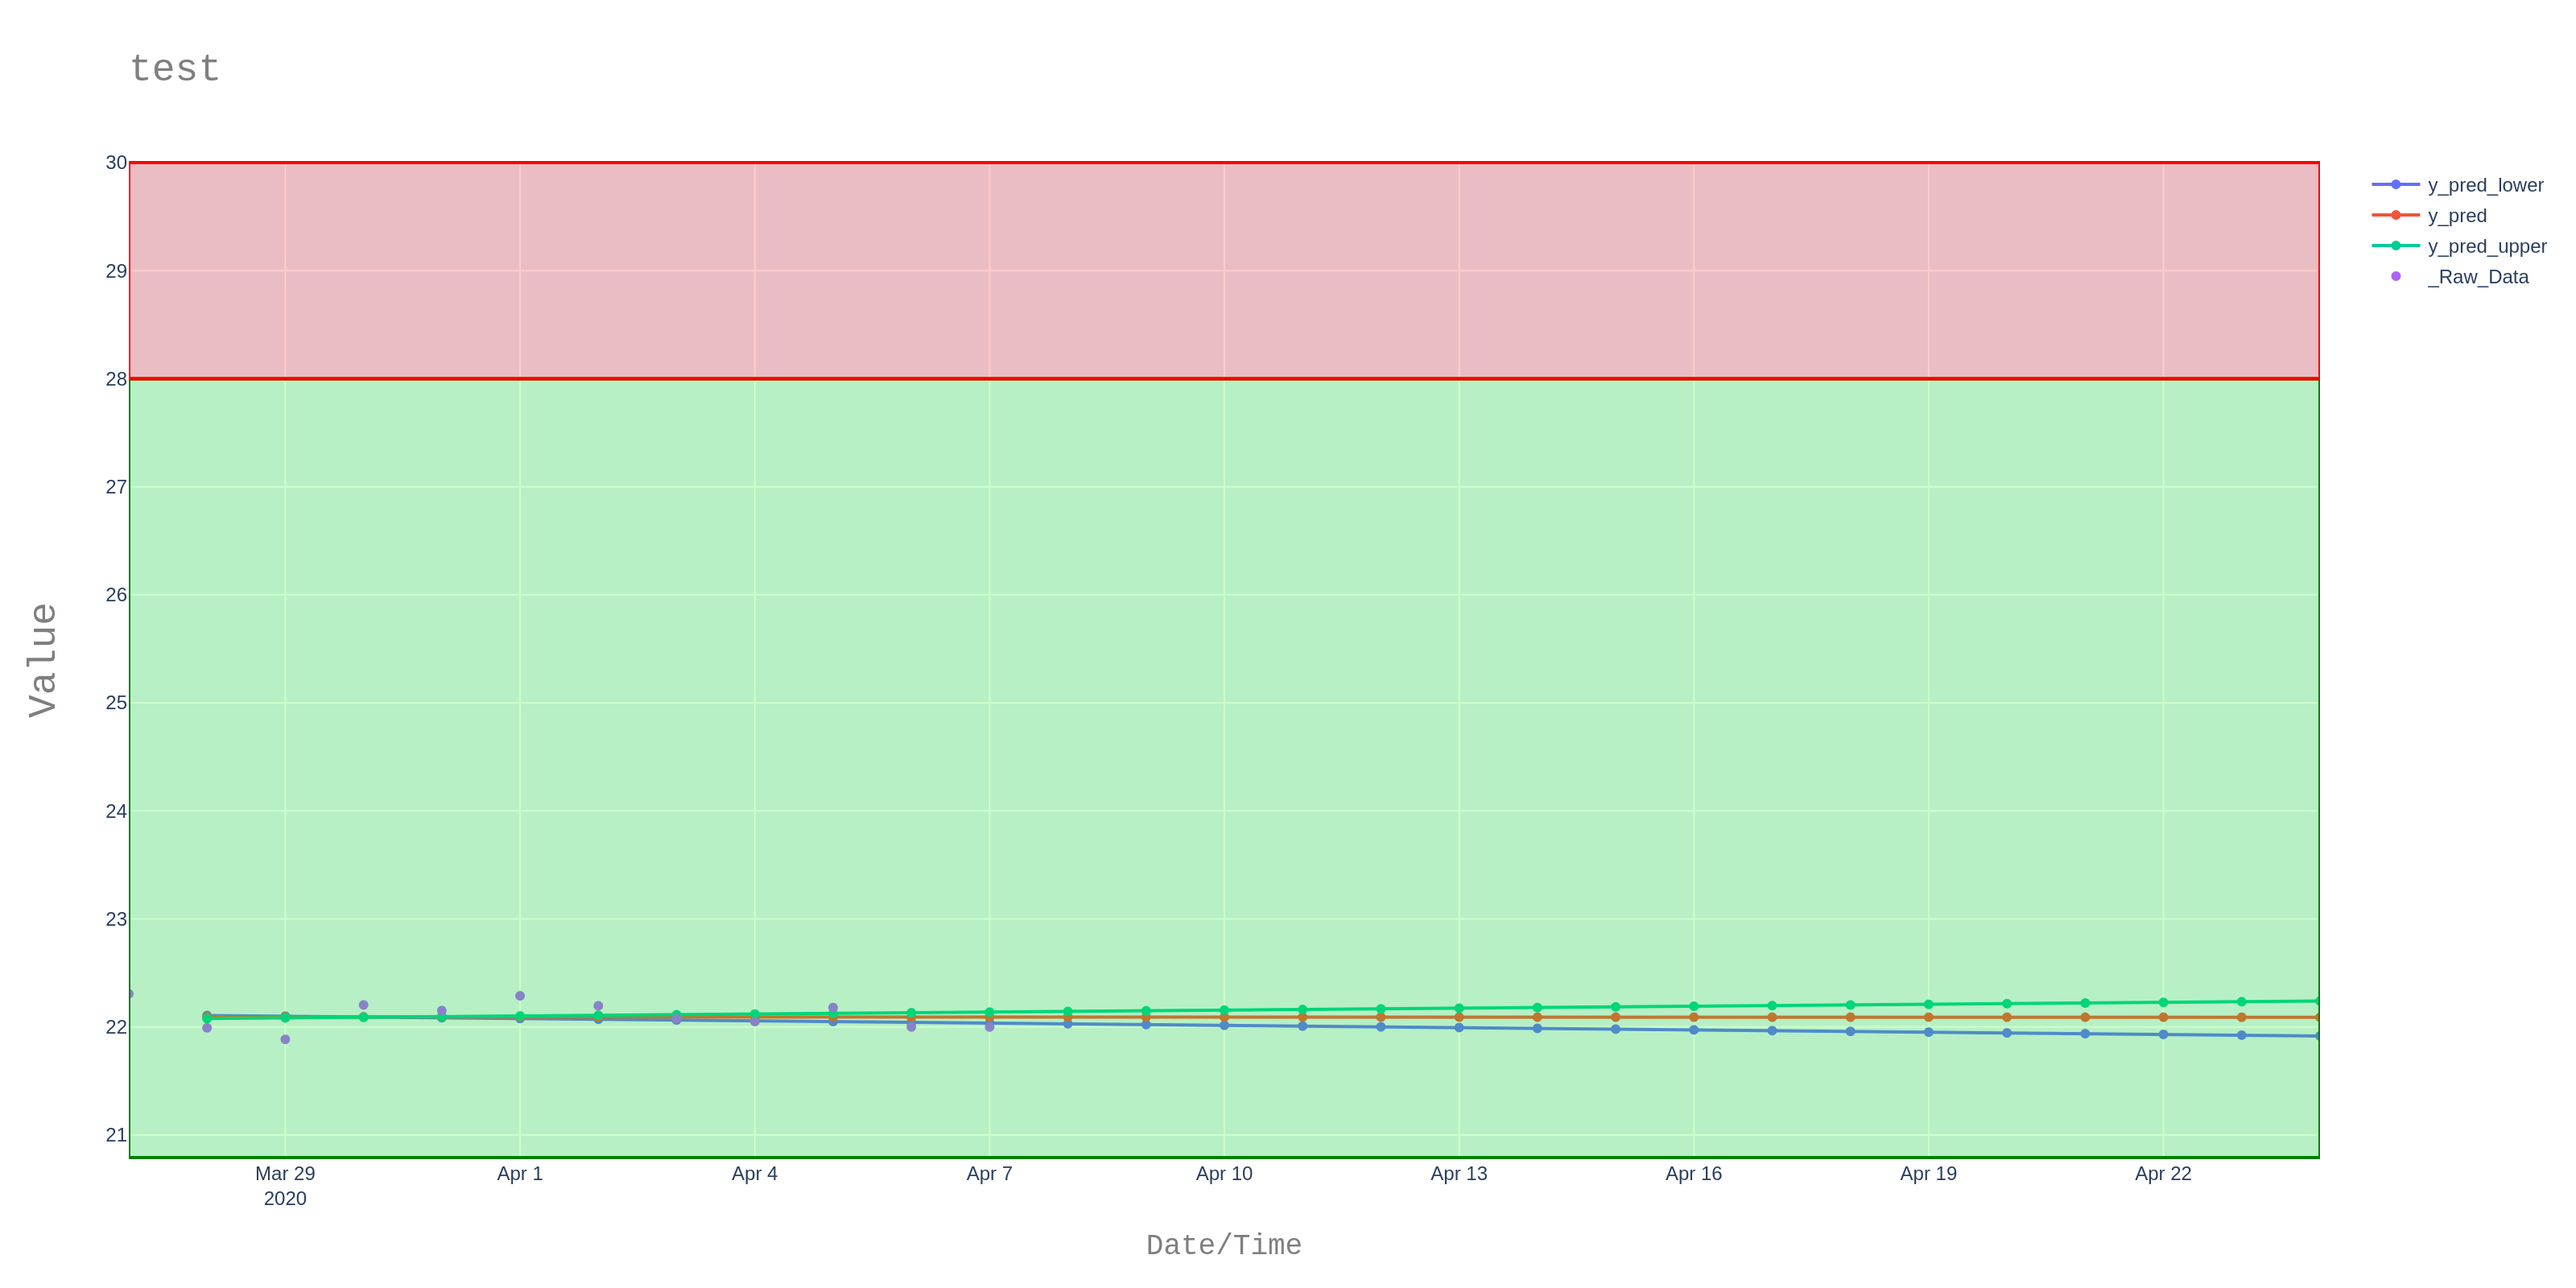
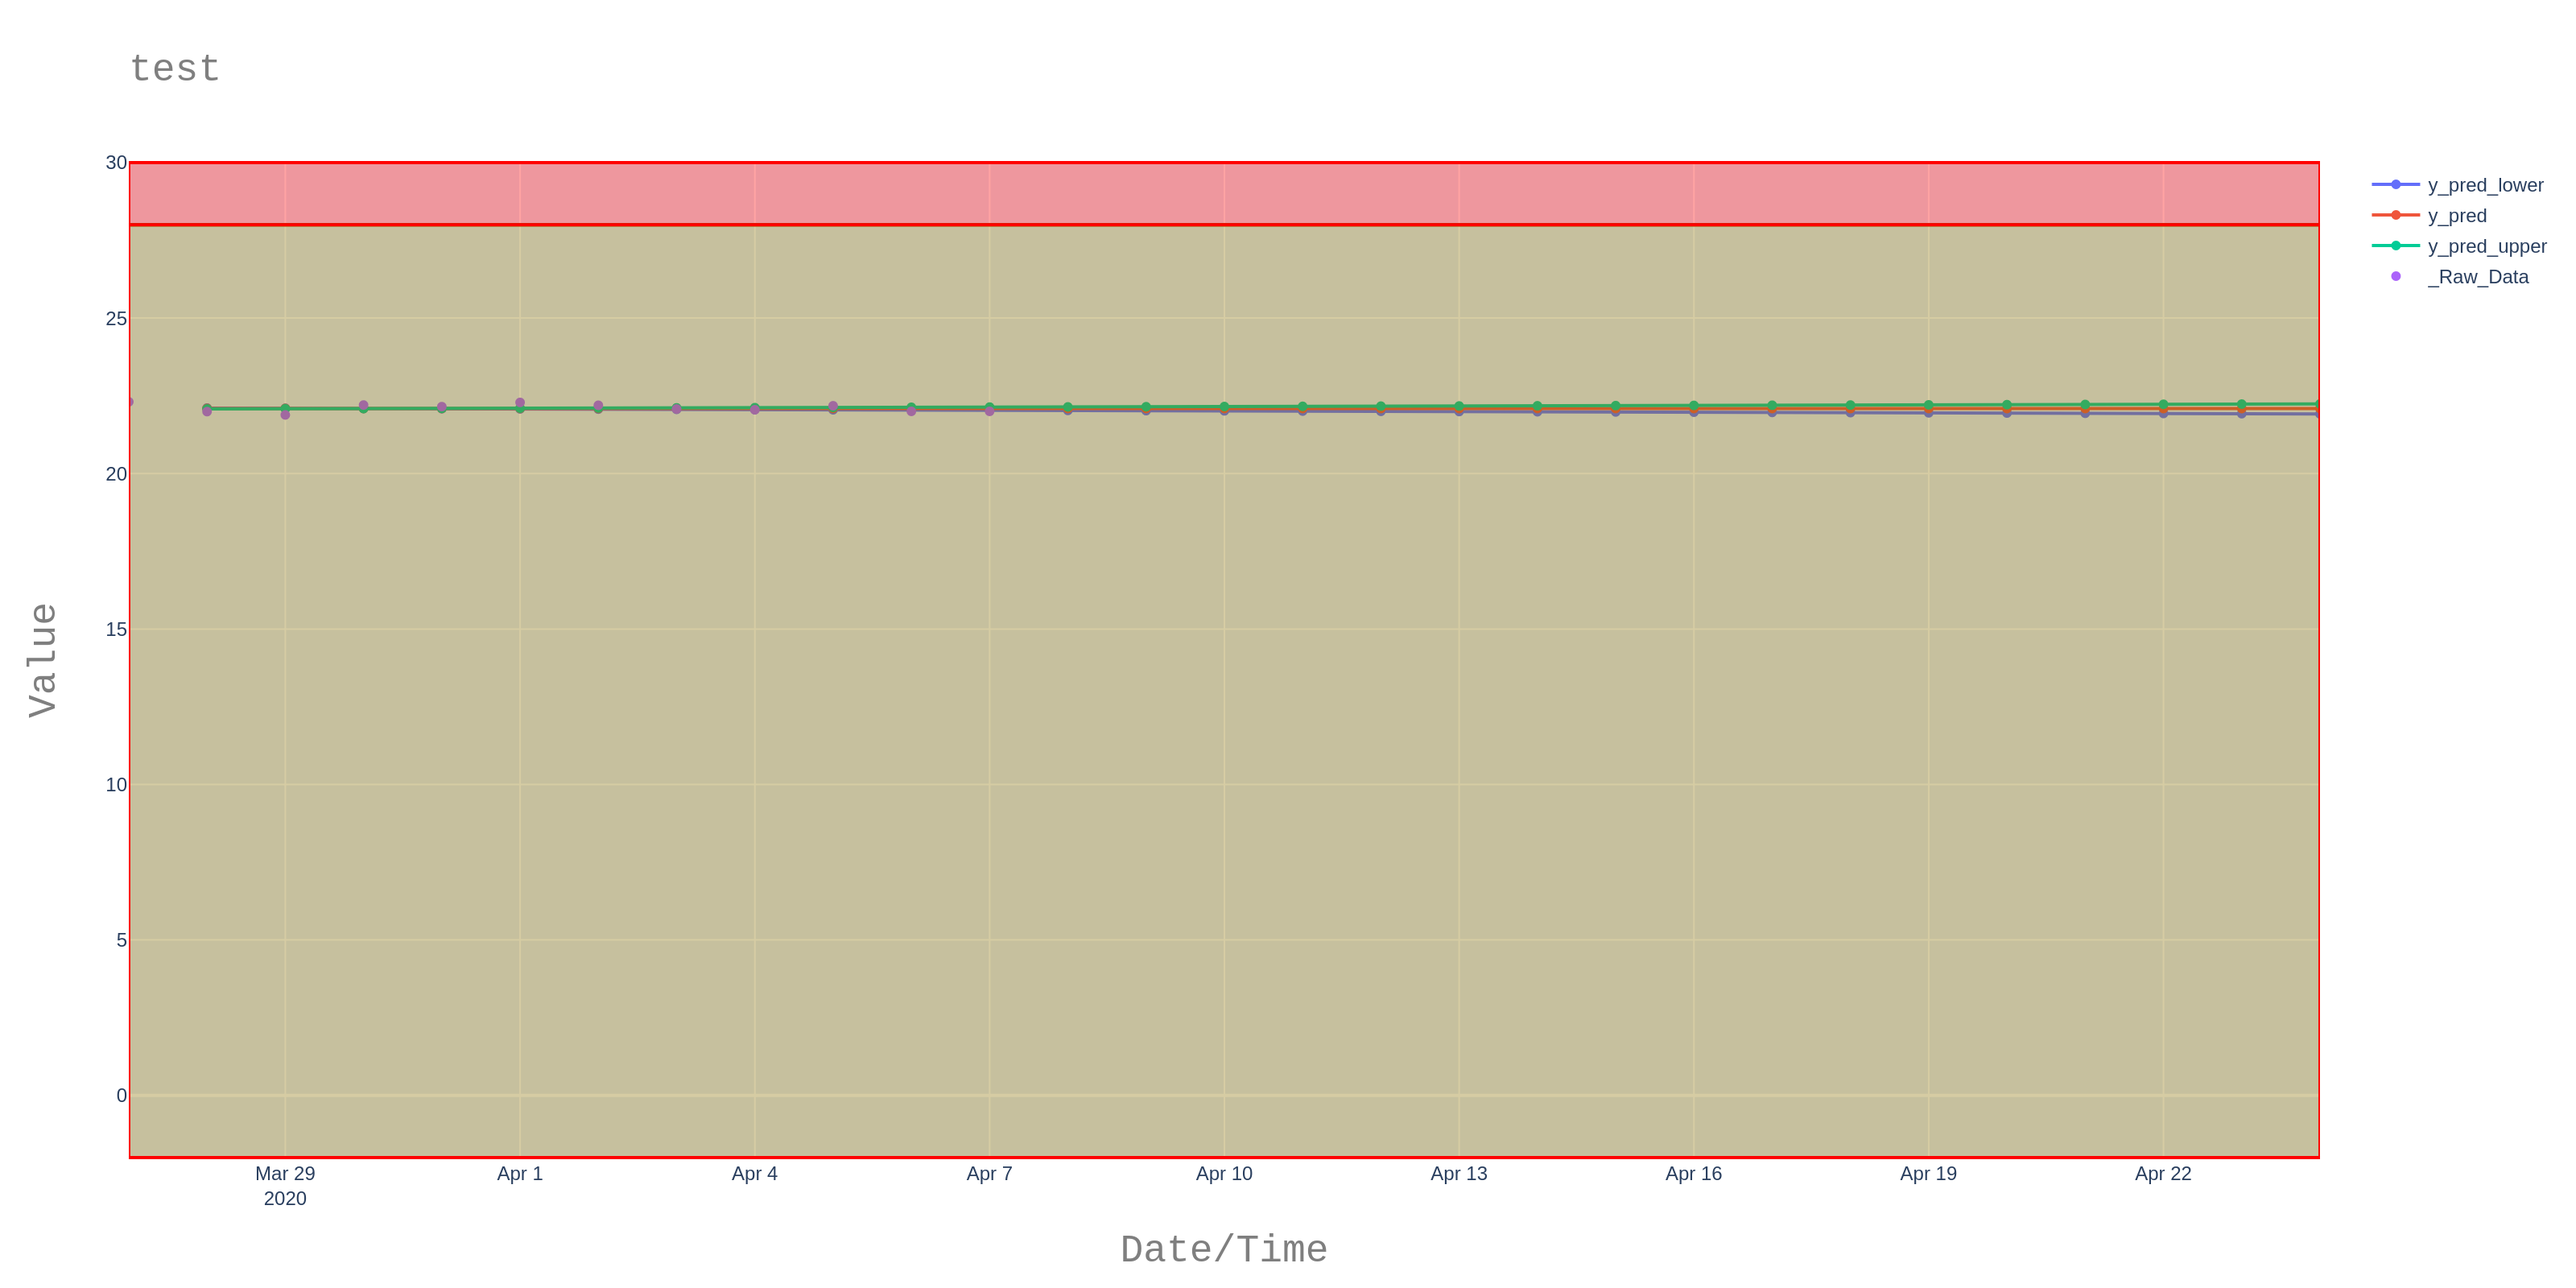
updated with plots with upper and lower limits

diff --git a/helper_functions/helper_functions.py b/helper_functions/helper_functions.py
@@ -13,7 +13,10 @@ final_df.index = pd.to_datetime(final_df.index)
 chart_title = "test"
 image_filename = join(current_dir, "test_plotly_plot.png")
 upper_warning_limit, upper_error_limit = 28, 30
+lower_warning_limit, lower_error_limit = -2, -4
 
+
+# For a time-series plot with only upper warning and error limits
 def get_plotly_fig_ts_data(final_df, upper_error_limit, upper_warning_limit, 
                     image_filename, chart_title, x_axis_title = "Date/Time", y_axis_title = "Value"):
     '''Pass in a dataframe with chart attributes, and it returns a plotly figure/graph object and saves pretty image''' 
@@ -79,3 +82,78 @@ def get_plotly_fig_ts_data(final_df, upper_error_limit, upper_warning_limit,
     return fig
 
 get_plotly_fig_ts_data(final_df, upper_error_limit, upper_warning_limit, image_filename, chart_title)
+
+
+# For a time-series plot with upper AND lower warning and error limits
+def get_plotly_fig_ts_data(final_df, lower_error_limit, lower_warning_limit, upper_error_limit, upper_warning_limit, 
+                    image_filename, chart_title, x_axis_title = "Date/Time", y_axis_title = "Value"):
+    '''Pass in a dataframe with chart attributes, and it returns a plotly figure/graph object and saves pretty image''' 
+
+    def get_trace_modes(trace_dfs):
+        '''Set mode (plotting style) for plotly traces'''
+
+        trace_modes = []
+
+        for item in trace_dfs:
+            trace_modes.append("markers") if "_Raw" in item.columns.values[0] else trace_modes.append("lines+markers") 
+
+        return trace_modes
+
+    # Prep Plotly trace data
+    trace_dfs = [final_df[[col]].dropna() for col in final_df.columns]
+    trace_names = list(final_df.columns)
+    trace_modes = get_trace_modes(trace_dfs)
+    limits_titles = {"UEL": upper_error_limit, "UWL": upper_warning_limit, "x_axis_title": x_axis_title,
+                     "y_axis_title": y_axis_title, "chart_title": chart_title}
+
+    #Create a "shapes list to hold limit lines graph data
+    shapes = [{"type":"line", "x0":final_df.index.min().tz_localize(None), "y0" : upper_warning_limit,
+                "x1":final_df.index.max().tz_localize(None), "y1":upper_warning_limit,"line":{"color":"orange"}
+               },
+
+              {"type": "line", "x0": final_df.index.min().tz_localize(None), "y0": upper_error_limit,
+               "x1": final_df.index.max().tz_localize(None), "y1": upper_error_limit, "line":{"color":"red"}},
+
+              #Green Zone (upper + lower)
+              {"type": "rect", "x0": final_df.index.min().tz_localize(None),
+               "y0": lower_warning_limit,
+               "x1": final_df.index.max().tz_localize(None), "y1": upper_warning_limit,
+               "line": {"color": "green"}, "fillcolor":'rgba(0,255,0,0.2)'},
+
+              #Upper Red Zone
+              {"type": "rect", "x0": final_df.index.min().tz_localize(None),
+               "y0": upper_warning_limit,
+               "x1": final_df.index.max().tz_localize(None), "y1": upper_error_limit,
+               "line": {"color": "red"}, "fillcolor":'rgba(255,0,0,0.2)'},
+
+               #Lower Red Zone
+              {"type": "rect", "x0": final_df.index.min().tz_localize(None),
+               "y0": upper_error_limit,
+               "x1": final_df.index.max().tz_localize(None), "y1": lower_warning_limit,
+               "line": {"color": "red"}, "fillcolor":'rgba(255,0,0,0.2)'}
+
+              ]
+
+    # Create plotly figure dict skeleton
+    fig = {"data": [],
+           "layout": {"title": { "text":limits_titles['chart_title'], "font":{"family":"Courier New, monospace", "size":24, "color":'#7f7f7f'}}, 
+           "xaxis": {"title": {"text":limits_titles['x_axis_title'], "font":{"family":"Courier New, monospace", "size":24, "color":'#7f7f7f'}}, "range":[final_df.index.min(), final_df.index.max()]},
+                      "yaxis": {"title": {"text":limits_titles['y_axis_title'], "font":{"family":"Courier New, monospace", "size":24, "color":'#7f7f7f'}}},"shapes":shapes}}
+
+    # loop through all x,y combo (index and value pairs)
+    for value in range(0, len(final_df.columns)):
+        fig["data"].append({"type": "scatter", "x": pd.to_datetime(trace_dfs[value].index.ravel()),
+                            "y": trace_dfs[value].values.ravel(), "name": trace_names[value],
+                            "mode": trace_modes[value]})
+
+    # Convert Plotly dict to plotly graph object
+    fig = go.Figure(fig)
+    # Test Plots
+    #pio.show(fig)
+    #py.offline.plot(fig)
+    pio.write_image(fig, image_filename, "png", width=1600, height=800, scale=2)
+
+    return fig
+
+#get_plotly_fig_ts_data(final_df, lower_error_limit, lower_warning_limit, upper_error_limit, upper_warning_limit, image_filename, chart_title)
+
